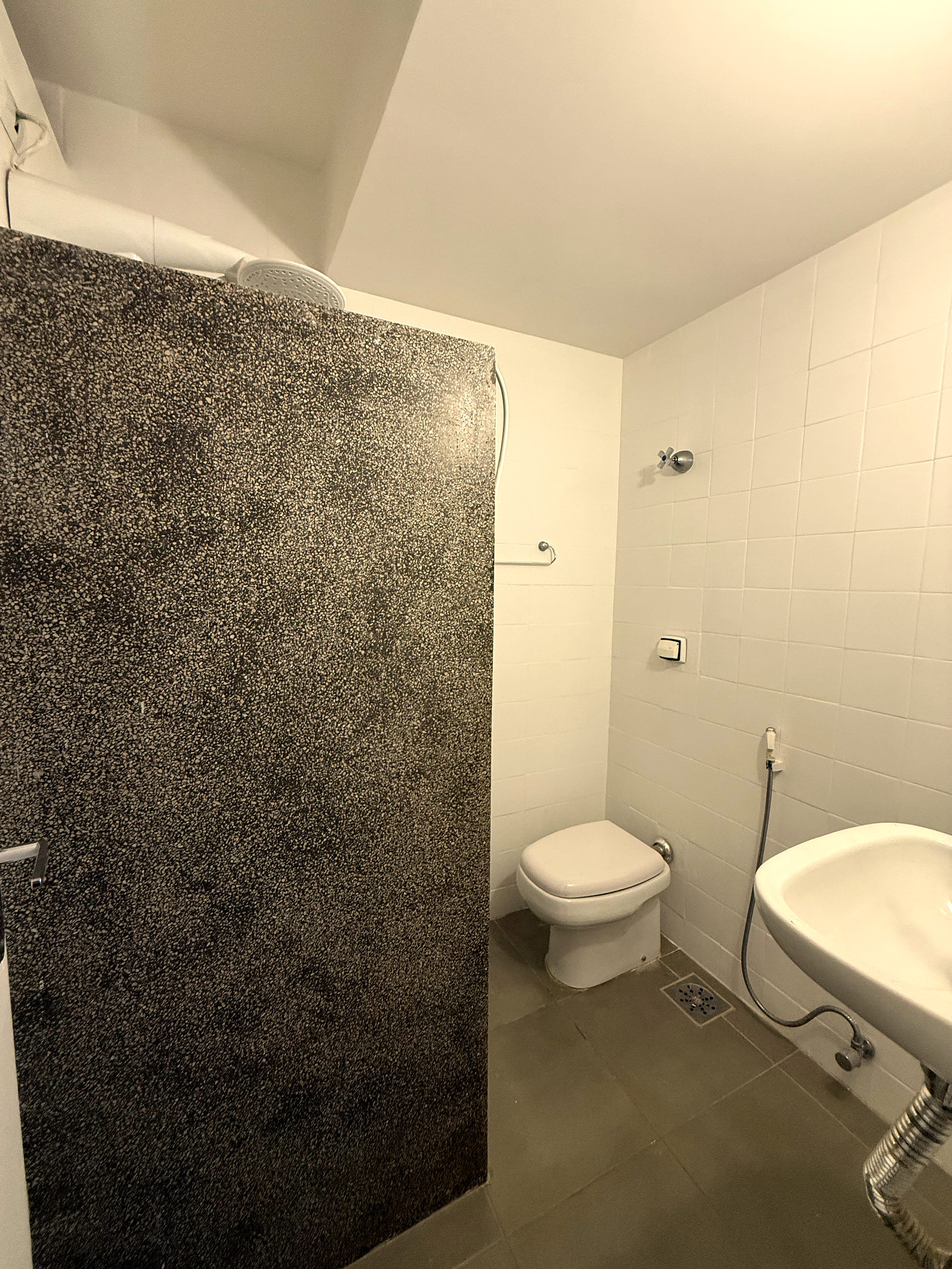
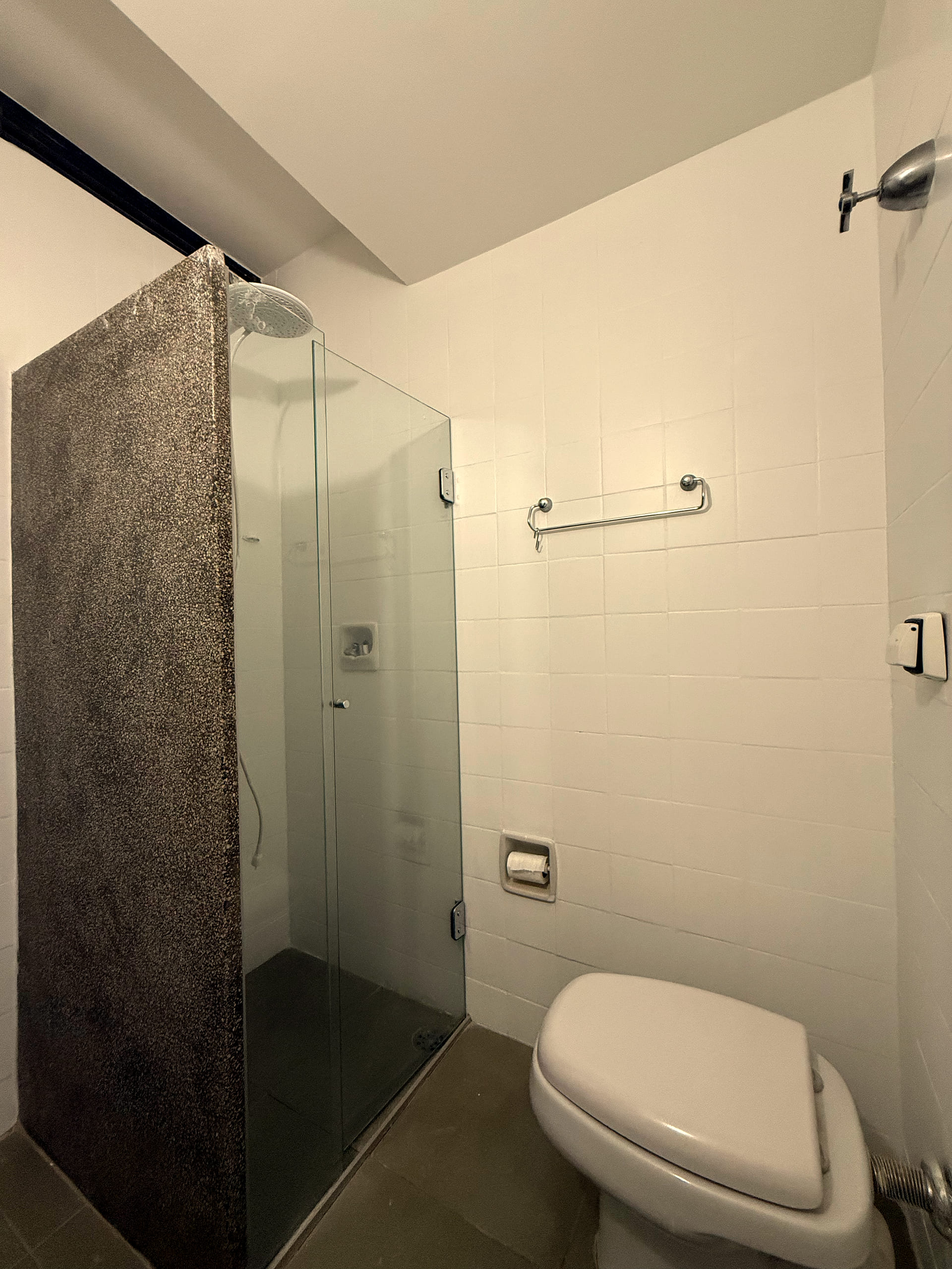
Update contacts, split gallery categories, fix details card layout
- Set WhatsApp to +5561982399222 and email to apartamentomocha@gmail.com
- Split "Áreas comuns" into "Banheiros" and "Área de serviço" categories
- Swap banheiro social photo to foto 5 (glass shower box)
- Fix details card grid: keep 2 cols with whitespace-nowrap to prevent text wrapping
- Update bento grid bottom row to 3 equal-width items

diff --git a/src/data/property.ts b/src/data/property.ts
@@ -151,17 +151,17 @@ export const property = {
 
   // Contato
   contact: {
-    whatsapp: "5561999999999", // Substituir pelo número real
+    whatsapp: "5561982399222",
     whatsappMessage:
       "Olá! Vi o anúncio do apartamento na SQN 415/416 (Apt 202) e tenho interesse. Podemos conversar?",
-    email: "contato@example.com", // Substituir pelo e-mail real
+    email: "apartamentomocha@gmail.com",
   },
 
   // Hero
   hero: "/images/gallery/hero.jpg",
 
   // Galeria
-  galleryFilters: ["Todos", "Sala", "Cozinha", "Quartos", "Áreas comuns", "Externo"] as const,
+  galleryFilters: ["Todos", "Sala", "Cozinha", "Quartos", "Banheiros", "Área de serviço", "Externo"] as const,
   gallery: [
     { label: "Sala de estar", src: "/images/gallery/sala-vista.jpg", room: "Sala" },
     { label: "Sala — janela", src: "/images/gallery/sala-janela.jpg", room: "Sala" },
@@ -175,11 +175,11 @@ export const property = {
     { label: "Quarto 2", src: "/images/gallery/quarto2-entrada.jpg", room: "Quartos" },
     { label: "Quarto 2 — janela", src: "/images/gallery/quarto2-janela.jpg", room: "Quartos" },
     { label: "Quarto 3", src: "/images/gallery/quarto3.jpg", room: "Quartos" },
-    { label: "Banheiro social", src: "/images/gallery/banheiro-social.jpg", room: "Áreas comuns" },
-    { label: "Banheiro de serviço", src: "/images/gallery/banheiro-servico.jpg", room: "Áreas comuns" },
-    { label: "Área de serviço — lavanderia", src: "/images/gallery/area-servico-lavanderia.jpg", room: "Áreas comuns" },
-    { label: "Área de serviço — cobogó", src: "/images/gallery/area-servico-cobogo.jpg", room: "Áreas comuns" },
-    { label: "Área de serviço", src: "/images/gallery/area-servico.jpg", room: "Áreas comuns" },
+    { label: "Banheiro social", src: "/images/gallery/banheiro-social.jpg", room: "Banheiros" },
+    { label: "Banheiro de serviço", src: "/images/gallery/banheiro-servico.jpg", room: "Banheiros" },
+    { label: "Área de serviço — lavanderia", src: "/images/gallery/area-servico-lavanderia.jpg", room: "Área de serviço" },
+    { label: "Área de serviço — cobogó", src: "/images/gallery/area-servico-cobogo.jpg", room: "Área de serviço" },
+    { label: "Área de serviço", src: "/images/gallery/area-servico.jpg", room: "Área de serviço" },
     { label: "Fachada — jardim", src: "/images/gallery/fachada-jardim.jpg", room: "Externo" },
     { label: "Fachada — frontal", src: "/images/gallery/fachada-frontal.jpg", room: "Externo" },
     { label: "Portaria", src: "/images/gallery/portaria.jpg", room: "Externo" },

diff --git a/src/components/sections/Gallery.tsx b/src/components/sections/Gallery.tsx
@@ -16,20 +16,20 @@ function Placeholder({ label }: { label: string }) {
 }
 
 /* One representative photo per room for the showcase grid */
-const showcaseRooms = ["Sala", "Cozinha", "Quartos", "Áreas comuns", "Externo"] as const;
+const showcaseRooms = ["Sala", "Cozinha", "Quartos", "Banheiros", "Área de serviço", "Externo"] as const;
 const showcase = showcaseRooms
   .map((room) => property.gallery.find((p) => p.room === room))
   .filter((p): p is (typeof property.gallery)[number] => p !== undefined);
 
 /*
- * Bento grid layout for desktop:
+ * Bento grid layout for desktop (6 rooms):
  * ┌──────────────┬─────────┐
  * │   Sala       │ Cozinha │
  * │  (2×2 hero)  ├─────────┤
  * │              │ Quartos │
- * ├──────┬───────┴─────────┤
- * │ Áreas│    Externo      │  ← flex row, equal height
- * └──────┴─────────────────┘
+ * ├──────┬───────┴┬────────┤
+ * │Banho │Á.Serv. │Externo │  ← flex row, equal height
+ * └──────┴────────┴────────┘
  */
 const topBentoStyles: { className: string; aspect: string }[] = [
   { className: "col-span-2 row-span-2", aspect: "4/3" },
@@ -145,9 +145,7 @@ export function Gallery() {
                 {showcase.slice(3).map((photo, i) => (
                   <motion.button
                     key={photo.src}
-                    className={`group relative cursor-pointer overflow-hidden rounded-lg ${
-                      i === 0 ? "w-1/3" : "w-2/3"
-                    }`}
+                    className="group relative flex-1 cursor-pointer overflow-hidden rounded-lg"
                     onClick={() => openShowcaseRoom(photo)}
                     initial={{ opacity: 0, y: 20 }}
                     whileInView={{ opacity: 1, y: 0 }}

diff --git a/src/components/sections/About.tsx b/src/components/sections/About.tsx
@@ -62,7 +62,7 @@ export function About() {
               <div className="md:flex-1">
                 <Home className="h-6 w-6 text-accent" />
                 <h3 className="mt-3 font-semibold text-lg">Detalhes do imóvel</h3>
-                <div className="mt-3 grid grid-cols-2 gap-x-6 gap-y-2 text-sm sm:grid-cols-4">
+                <div className="mt-3 grid grid-cols-2 gap-x-3 gap-y-2 text-sm">
                   <span className="text-muted">
                     <strong className="text-foreground">3</strong> quartos
                   </span>
@@ -75,10 +75,10 @@ export function About() {
                   <span className="text-muted">
                     <strong className="text-foreground">{property.address.floor}</strong>
                   </span>
-                  <span className="text-muted">Ventilação cruzada</span>
-                  <span className="text-muted">Semi-mobiliado</span>
-                  <span className="text-muted">Pet-friendly</span>
-                  <span className="text-muted">Bicicletário</span>
+                  <span className="text-muted whitespace-nowrap">Ventilação cruzada</span>
+                  <span className="text-muted whitespace-nowrap">Semi-mobiliado</span>
+                  <span className="text-muted whitespace-nowrap">Pet-friendly</span>
+                  <span className="text-muted whitespace-nowrap">Bicicletário</span>
                 </div>
               </div>
               <div className="mt-4 border-t border-white/10 pt-4 md:mt-0 md:border-t-0 md:border-l md:pt-0 md:pl-10">
